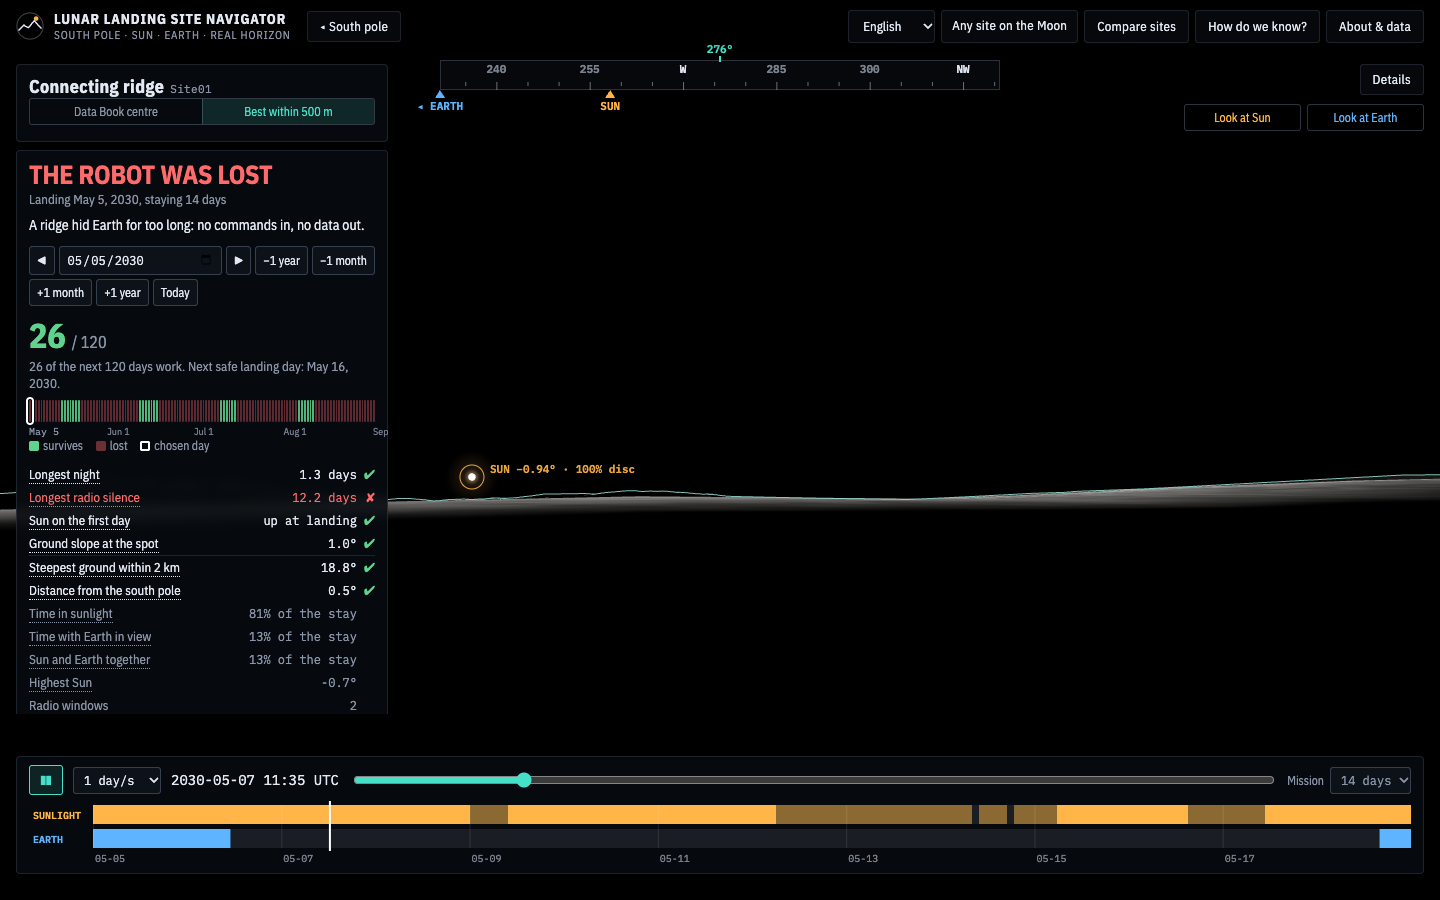
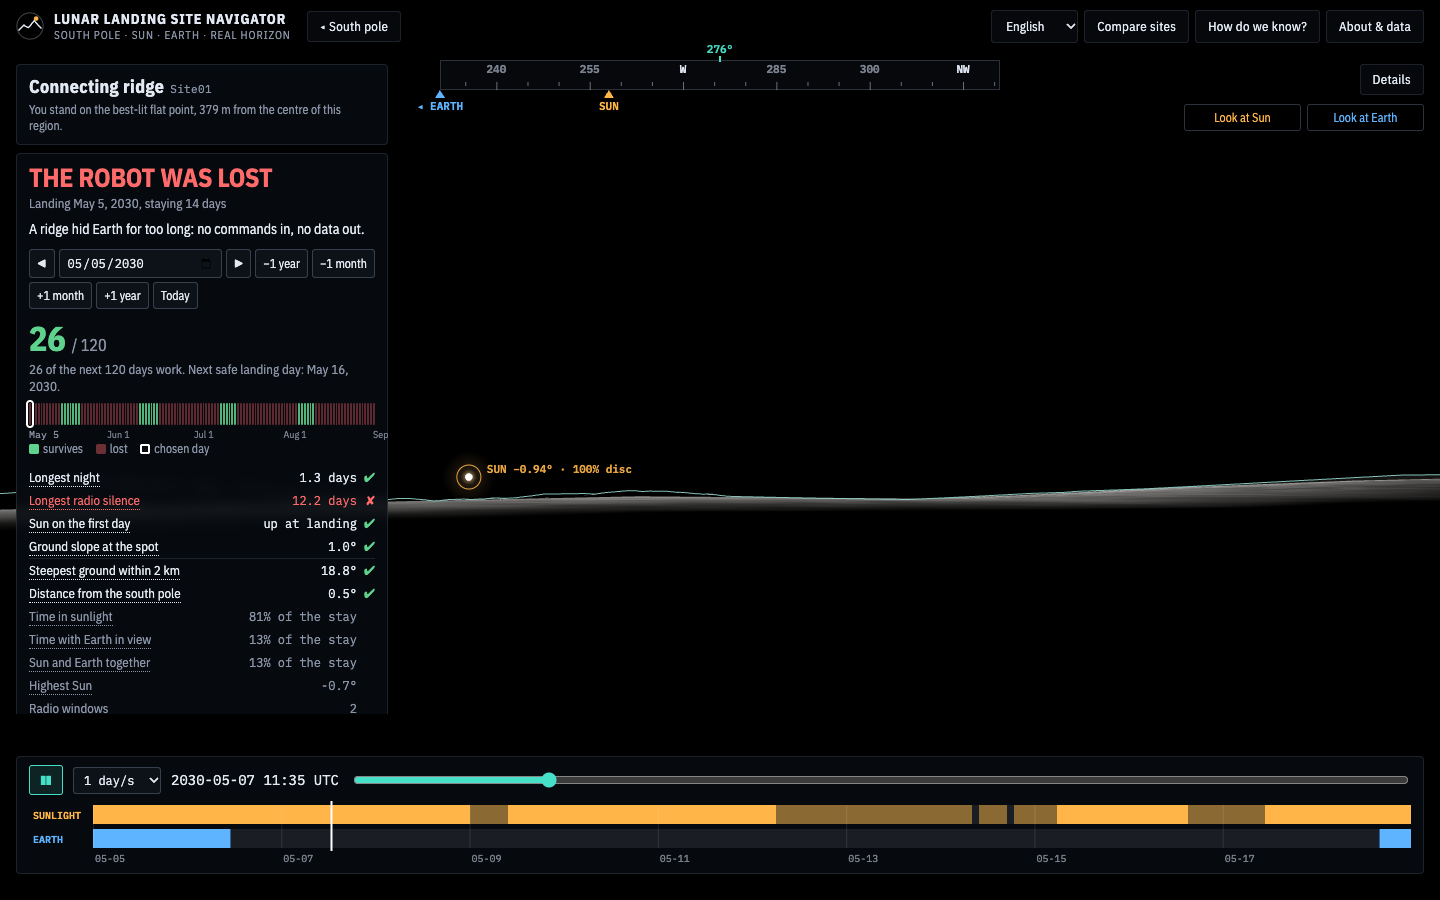
Hosted site: one clean product
- the root always opens the 3D app; the link to the 2D planner is gone
- address is short: #site=cr&land=2027-01-01
- site list shows names only, so it cannot disagree with the answer panel
- always stand on the best spot near a region centre; the point switch,
  stay length and expert numbers are behind Details
- plain words for which point you stand on

diff --git a/app/surface/src/main.js b/app/surface/src/main.js
@@ -50,10 +50,11 @@ const periodEnd = () => Date.parse(S.index.period.end) / 1000;
 const missionEnd = () => Math.min(S.missionStart + S.missionDays * 86400, periodEnd());
 
 function setHash() {
+  // One short address: the site and the landing day. Expert state (stay length, clock time, centre point) is not kept in it.
   const p = new URLSearchParams();
-  if (S.mode === 'surface') { p.set('site', S.siteId); p.set('v', S.variant); }
-  p.set('land', isoLocal(S.missionStart)); p.set('days', S.missionDays); p.set('t', isoLocal(S.t));
-  history.replaceState(null, '', '#' + p.toString());
+  if (S.mode === 'surface') p.set('site', S.siteId);
+  p.set('land', isoLocal(S.missionStart).slice(0, 10));
+  history.replaceState(null, '', location.pathname + '#' + p.toString());
 }
 
 // ------------------------------------------------------------- overview UI
@@ -65,13 +66,7 @@ function buildSiteList() {
     const sm = v.summary_full_period;
     const li = document.createElement('li');
     const bs = b?.summary_full_period;
-    li.innerHTML = `<button>
-      <span class="nm">${s.name}</span><span class="rf">${s.ref}</span>
-      <span class="st"><span class="s">Sun <b>${sm.pct_sunlit_any.toFixed(0)}%</b></span>
-      <span class="e">Earth <b>${sm.pct_earth.toFixed(0)}%</b></span>
-      <span>Longest night <b>${sm.longest_dark_h} h</b></span></span>
-      <span class="alt">${bs ? `≤500 m away: sun <b>${bs.pct_sunlit_any.toFixed(0)}%</b>, night <b>${bs.longest_dark_h} h</b>` : 'No ≤10° slope within 500 m at 80 m res.'}</span>
-    </button>`;
+    li.innerHTML = `<button><span class="nm">${s.name}</span><span class="rf">${s.ref}</span></button>`;
     li.querySelector('button').onclick = () => enterSite(s.id, s.variants.best ? 'best' : 'databook') /* land on the best-lit point near the centre when there is one */;
     ol.appendChild(li);
   }
@@ -186,9 +181,9 @@ function renderHudStatic() {
     if (b.dataset.v === 'best' && !e.variants.best) b.title = 'No DEM pixel with slope ≤ 10° within 500 m';
   }
   $('h-variant-note').textContent = S.variant === 'best'
-    ? `Best-lit DEM pixel ${m.offset_m.toFixed(0)} m from the Data Book centre with slope ≤ ${m.search.slope_limit_deg}° (our illustrative limit).`
-    : e.variants.best ? 'Region centre from the Data Book (not a landing point).'
-      : 'Region centre from the Data Book. No pixel ≤ 10° slope within 500 m at 80 m resolution.';
+    ? `You stand on the best-lit flat point, ${m.offset_m.toFixed(0)} m from the centre of this region.`
+    : e.variants.best ? 'You stand on the centre of this region (NASA Data Book). It is a region marker, not a chosen landing point.'
+      : 'You stand on the centre of this region (NASA Data Book). No flat, better-lit point was found within 500 m.';
 }
 
 function renderHud(s) {
@@ -587,16 +582,16 @@ function frame(now) {
     // Embedded in the guided mission (team 404 agents merge): start minimal, one button brings every number back.
     document.documentElement.classList.add('min'); document.documentElement.classList.toggle('embed', p.get('min') === '1'); // embed: inside the guided mission, which shows its own verdict // on <html>: the app replaces body.className
     $('more').onclick = () => { document.documentElement.classList.toggle('min'); resize(); };
-    const landing = p.get('land') ? Date.parse(p.get('land') + ':00Z') / 1000 : Math.floor(Date.now() / 86400000) * 86400; // default: land today
+    const landing = p.get('land') ? Date.parse(p.get('land').slice(0, 10) + 'T00:00:00Z') / 1000 : Math.floor(Date.now() / 86400000) * 86400; // default: land today
     S.missionStart = Number.isFinite(landing) ? landing : periodStart();
-    S.missionDays = +(p.get('days') || 14);
-    const t = p.get('t') ? Date.parse(p.get('t') + ':00Z') / 1000 : S.missionStart;
+    S.missionDays = 14; // the survival limits are set for a 14 day stay; "Details" can change it
+    const t = S.missionStart;
     S.t = Number.isFinite(t) ? t : S.missionStart;
     $('speed').value = String(S.speedH);
     resize();
     requestAnimationFrame(frame);
     if (p.get('site') && siteEntry(p.get('site'))) {
-      await enterSite(p.get('site'), p.get('v') || 'databook', { fly: false, keepTime: true });
+      await enterSite(p.get('site'), p.get('min') === '1' ? p.get('v') || 'databook' : siteEntry(p.get('site')).variants.best ? 'best' : 'databook', { fly: false, keepTime: true });
       const s0 = sample(S.site, S.t); surface.yaw = s0.sunAz; surface.pitch = 1;
     }
     if (p.get('panel')) openPanel(p.get('panel'));

diff --git a/app/surface/index.html b/app/surface/index.html
@@ -28,7 +28,6 @@
   <button id="back" class="ghost surface-only" title="Back to the south-pole map">◂ South pole</button>
   <nav>
     <select id="lang" aria-label="Language"></select>
-    <a class="ghost navlink" href="../index.html#mode=planner">Any site on the Moon</a>
     <button data-panel="compare">Compare sites</button>
     <button data-panel="validation">How do we know?</button>
     <button data-panel="about">About &amp; data</button>
@@ -37,7 +36,7 @@
 
 <aside id="sitelist" class="overview-only">
   <h2>Candidate sites</h2>
-  <p class="muted small"><b>Pick a site on the map or in this list</b> to fly down and stand on it. You will see if a solar robot survives a landing there, on any day from 2021 to 2031. Coordinates from NASA's <em>Lunar Surface Data Book</em> (M2M-30044, 2025).</p>
+  <p class="muted small"><b>Click a site</b>, here or on the map, to stand on it and see if a solar robot survives a landing there.</p>
   <ol id="sites"></ol>
   <p class="muted tiny">Map: LOLA LDEM_80S_80M averaged to 1.28 km, vertical exaggeration ×2, lighting illustrative. Up = 0° E (Earth-facing side).</p>
 </aside>
@@ -48,8 +47,8 @@
     <div class="site-name" id="h-name">—</div>
     <div class="coords" id="h-coords">—</div>
     <div class="seg" id="h-variant" role="tablist" aria-label="Evaluated point">
-      <button data-v="databook" role="tab">Data Book centre</button>
-      <button data-v="best" role="tab">Best within 500 m</button>
+      <button data-v="databook" role="tab" title="The centre of the region, as listed in NASA's Lunar Surface Data Book. A marker for the region, not a chosen landing point.">Region centre</button>
+      <button data-v="best" role="tab" title="The flat point with the most sunlight within 500 m of the region centre. This is where you would actually land.">Best spot nearby</button>
     </div>
     <div class="tiny muted" id="h-variant-note"></div>
   </div>

diff --git a/app/surface/css/app.css b/app/surface/css/app.css
@@ -240,3 +240,7 @@ html.min:not(.embed) .hud-block, html.min .mission label:first-child { display: 
 .verdict .v-key { font-size: 12px; color: var(--muted); margin: 0 0 8px; }
 .v-key i { display: inline-block; width: 10px; height: 10px; border-radius: 2px; margin: 0 4px 0 10px; vertical-align: -1px; } .v-key i:first-child { margin-left: 0; }
 .v-key i.ok { background: #5fd38d; } .v-key i.bad { background: #6b2f36; } .v-key i.cur { outline: 2px solid #fff; outline-offset: -2px; }
+/* One product, calm by default: the point switch, the stay length and the map footnote live behind "Details". */
+html.min #h-variant, html.min .mission, html.min #sitelist .tiny { display: none !important; }
+html.min #h-variant-note { display: block !important; font-size: 12px; color: var(--muted); margin-top: 4px; }
+#sites li button { display: flex; justify-content: space-between; align-items: baseline; width: 100%; }

diff --git a/app/index.html b/app/index.html
@@ -1,8 +1,8 @@
 <!doctype html>
 <html lang="en">
 <head>
-<script>/* Hosted: the front page is the 3D surface view. This page stays the 2D planner for any site on the Moon (#mode=planner) and the offline copy; the old guided story is not reachable on the hosted site. */
-if (location.protocol !== "file:") { if (!/(mode=planner|sites=)/.test(location.hash)) location.replace("surface/"); document.documentElement.classList.add("hosted"); }</script>
+<script>/* Hosted: there is one product, the 3D app in surface/. This page is only the offline 2D copy (opened as a file). */
+if (location.protocol !== "file:") location.replace("surface/");</script>
 <meta charset="utf-8">
 <meta name="viewport" content="width=device-width, initial-scale=1">
 <title>Lunar Landing Site Navigator</title>
